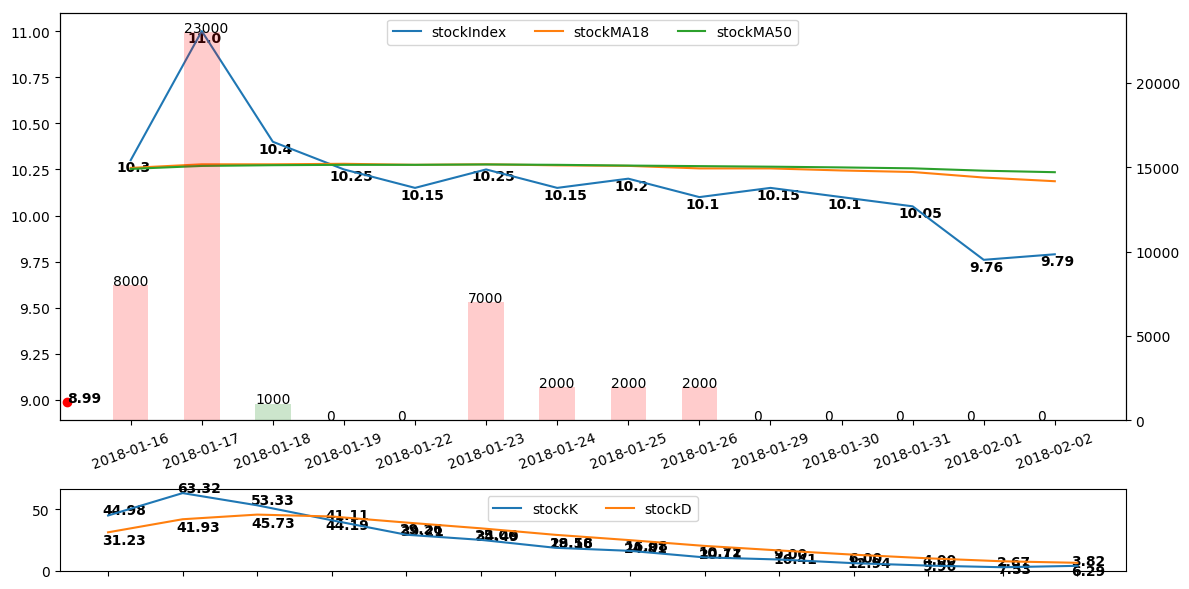
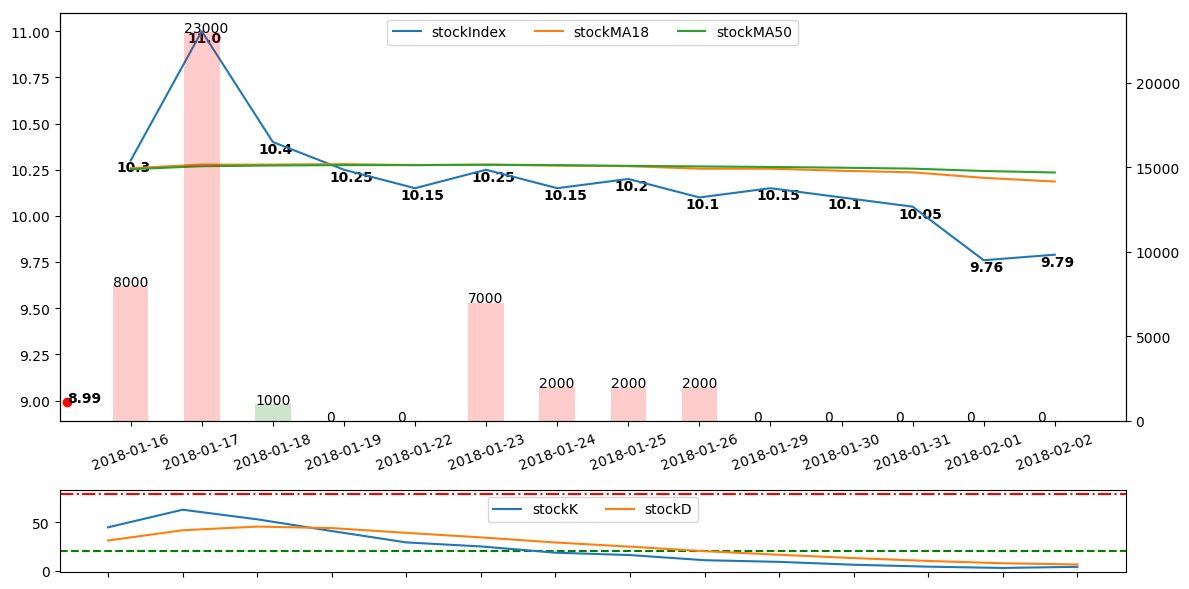
revise stockKD computation

diff --git a/stockDrawing.py b/stockDrawing.py
@@ -46,11 +46,13 @@ if __name__ == "__main__":
     # subplot2
     plt.setp(subplot2,xticks=x, xticklabels='')#, ylabel='score')
     pL21 = subplot2.plot(x, y21, '', label='stockK', zorder=10)
-    for xCor, yCor in zip(x, y21):
-        subplot2.text(xCor-0.08, yCor+1, str("%.2f" % (yCor)), weight='bold')
+    # for xCor, yCor in zip(x, y21):
+    #     subplot2.text(xCor-0.08, yCor+1, str("%.2f" % (yCor)), weight='bold')
     pL22 = subplot2.plot(x, y22, '', label='stockD', zorder=10)
-    for xCor, yCor in zip(x, y22):
-        subplot2.text(xCor-0.08, yCor-10, str("%.2f" % (yCor)), weight='bold')
+    # for xCor, yCor in zip(x, y22):
+    #     subplot2.text(xCor-0.08, yCor-10, str("%.2f" % (yCor)), weight='bold')
+    subplot2.axhline(y=20, color='g', linestyle='--')
+    subplot2.axhline(y=80, color='r', linestyle='-.')
 
     h2, l2 = subplot2.get_legend_handles_labels()
     lgd2 = subplot2.legend(h2, l2, loc='upper center', fancybox=True, shadow=False, ncol=5) # http://matplotlib.org/users/legend_guide.html

diff --git a/stockClass.py b/stockClass.py
@@ -417,10 +417,12 @@ class stockClass(object):
                 if (float((max(slice, key=lambda x: x[1]))[1]) - float(min(slice, key=lambda x: x[1])[1])) != 0:
                     rsv = (float(stockData[j][1]) - float(min(slice, key=lambda x: x[1])[1])) / \
                         (float((max(slice, key=lambda x: x[1]))[1]) - float(min(slice, key=lambda x: x[1])[1])) * 100.0
+                    curK = 2.0 / 3.0 * preK + 1.0 / 3.0 * rsv
+                    curD = 2.0 / 3.0 * preD + 1.0 / 3.0 * curK
                 else:
-                    rsv = 50.0
-                curK = 2.0 / 3.0 * preK + 1.0 / 3.0 * rsv
-                curD = 2.0 / 3.0 * preD + 1.0 / 3.0 * curK
+                    # rsv = 50.0
+                    curK = preK
+                    curD = preD
                 print(rsv, preK, preD)
                 print((curK, curD, stock, stockData[j][0]))
                 stockKDList.append((curK, curD, stock, stockData[j][0]))
